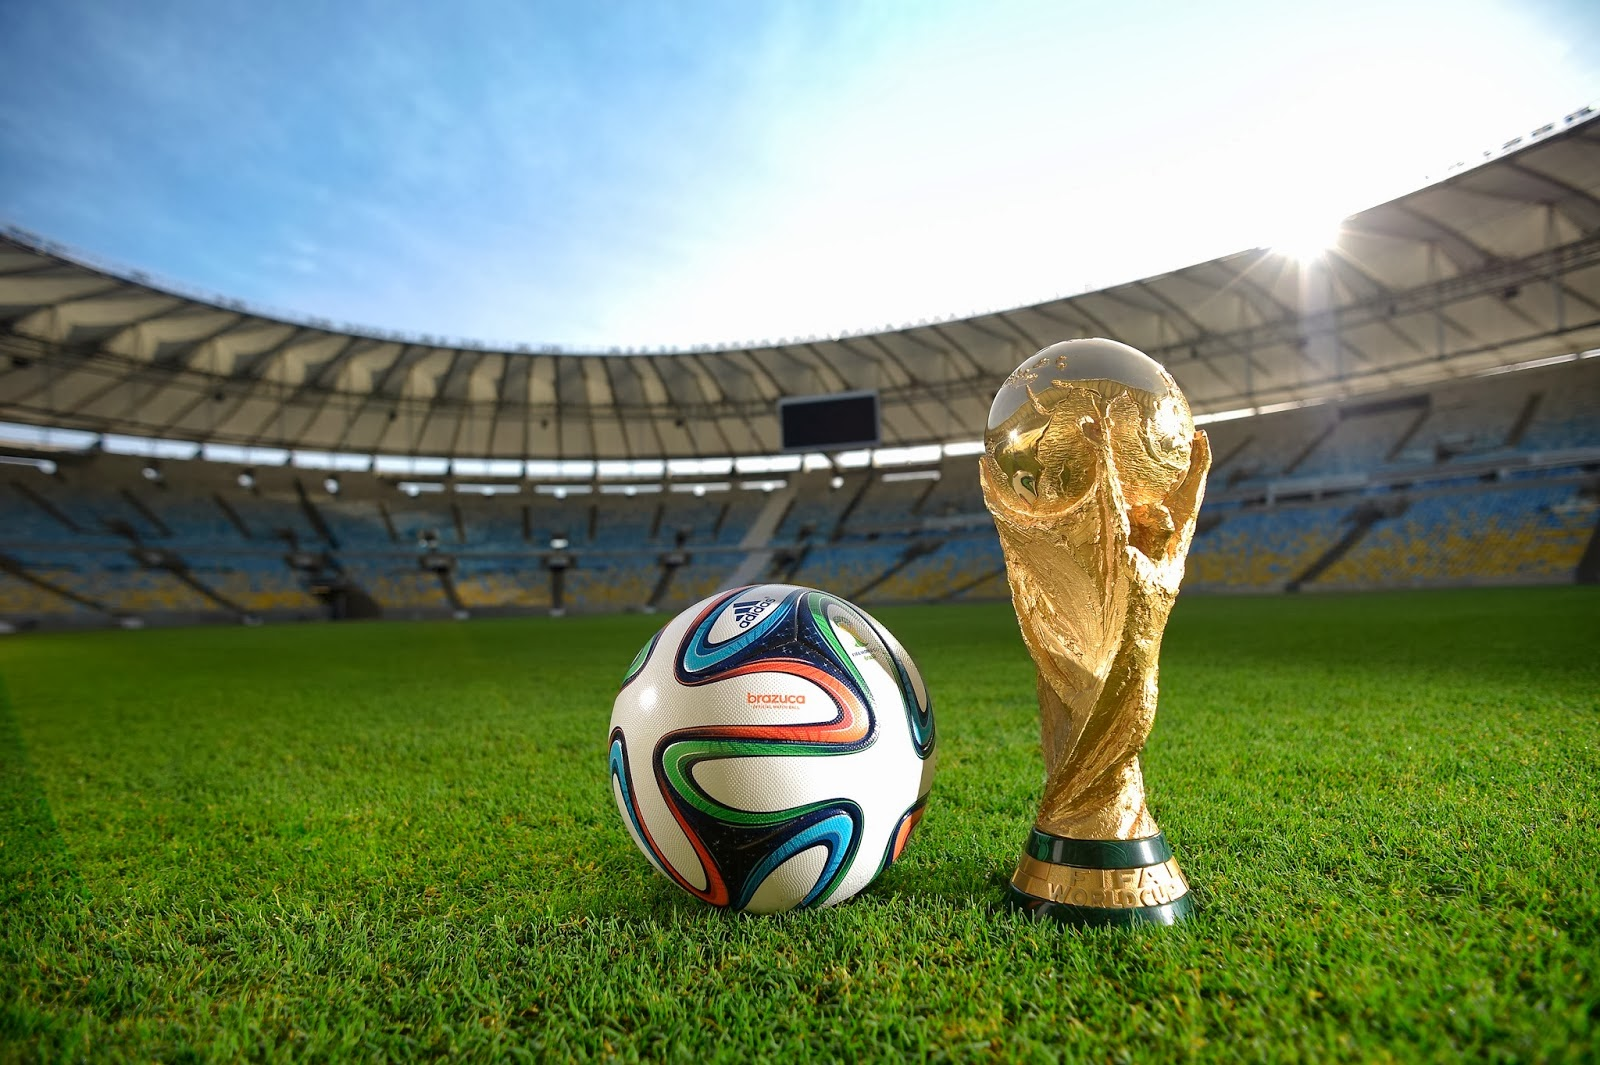
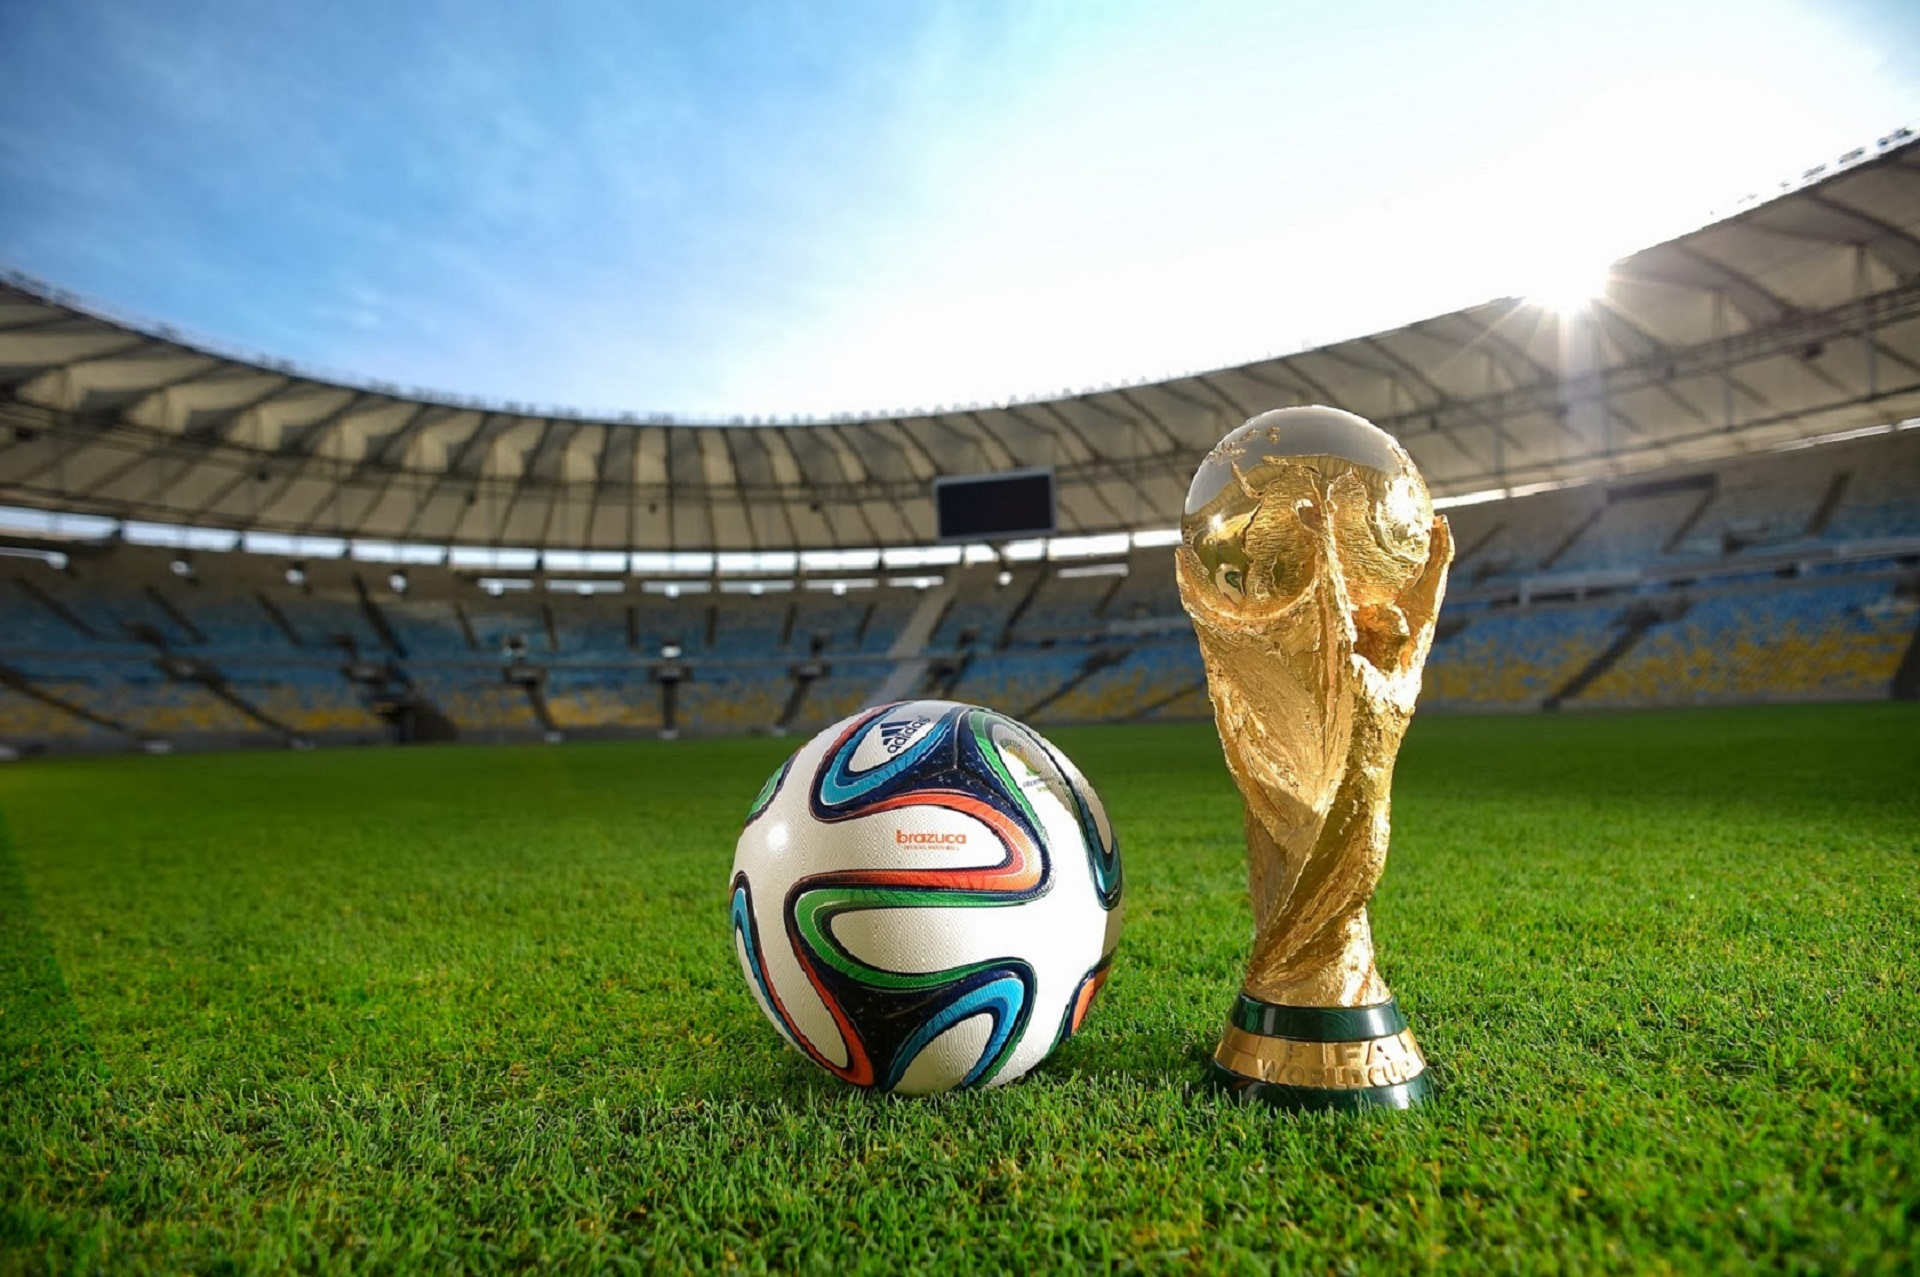
Placeholder FOr IE

Changed region(s): [[0.0625, 0.3408, 1.0, 0.9296], [0.4062, 0.5577, 0.5938, 0.7127], [0.375, 0.6817, 0.4375, 0.7746]]

diff --git a/web/js/placeholderIE.js b/web/js/placeholderIE.js
@@ -1,0 +1,33 @@
+/* 
+ * To change this license header, choose License Headers in Project Properties.
+ * To change this template file, choose Tools | Templates
+ * and open the template in the editor.
+ */
+
+
+$(document).ready(function(){
+    alert("test");
+    
+    $('[placeholder]').focus(function() {
+        var input = $(this);
+        if (input.val() == input.attr('placeholder')) {
+          input.val('');
+          input.removeClass('placeholder');
+        }
+    }).blur(function() {
+        var input = $(this);
+        if (input.val() == '' || input.val() == input.attr('placeholder')) {
+          input.addClass('placeholder');
+          input.val(input.attr('placeholder'));
+        }
+    }).blur();
+    
+    $('[placeholder]').parents('form').submit(function() {
+        $(this).find('[placeholder]').each(function() {
+          var input = $(this);
+          if (input.val() == input.attr('placeholder')) {
+            input.val('');
+          }
+        })
+      });
+});

diff --git a/web/css/general.css b/web/css/general.css
@@ -8,7 +8,8 @@ body {
     background-attachment: fixed;
     background-image: url("../img/background.jpg");
     background-repeat: no-repeat;
-    background-size: 100% auto;
+    /*background-size: 100% auto;*/
+    background-position: center;
 }
 body nav {
 }
@@ -150,6 +151,10 @@ body.pool #container .groupe table tr td {
 body.competitions #container .myCompetitionsIntro p {
     margin: 20px 0 20px 80px;
 }
+body.competitions #container .myCompetitionsIntro a {
+    float: right;
+    margin-right: 30px;
+}
 body.competitions #container .myCompetitionsList h3 {
     margin: 20px 0 20px 80px;
 }
@@ -236,4 +241,8 @@ div.success{
      
 div.success p{
     background:#FEEFB3 url('../img/icon_check.png') no-repeat;
+}
+.placeholder
+{
+  color: #aaa;
 }

diff --git a/web/js/jsContent.js b/web/js/jsContent.js
@@ -1,0 +1,18 @@
+/* 
+ * To change this license header, choose License Headers in Project Properties.
+ * To change this template file, choose Tools | Templates
+ * and open the template in the editor.
+ */
+
+
+$(document).ready(function(){
+   
+    $('.myCompetitionsIntro a').click(function() {
+        var input = $(this);
+        if ("hidden" == $('.myCompetitionsIntro p').attr('class')) {
+            $('.myCompetitionsIntro p').removeClass('hidden');
+        } else {
+            $('.myCompetitionsIntro p').addClass('hidden');
+        }
+    });
+});
